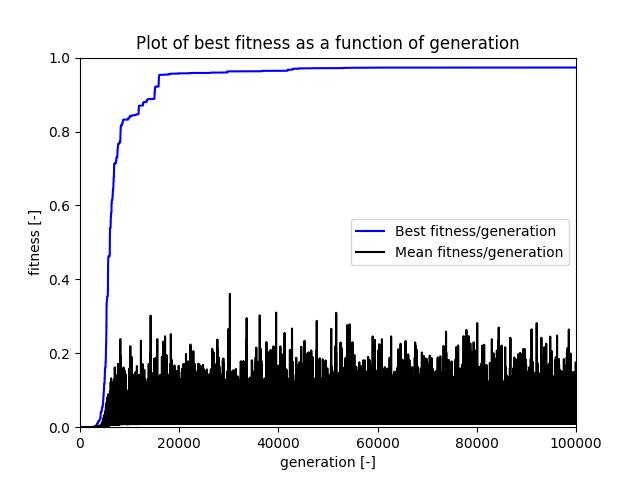
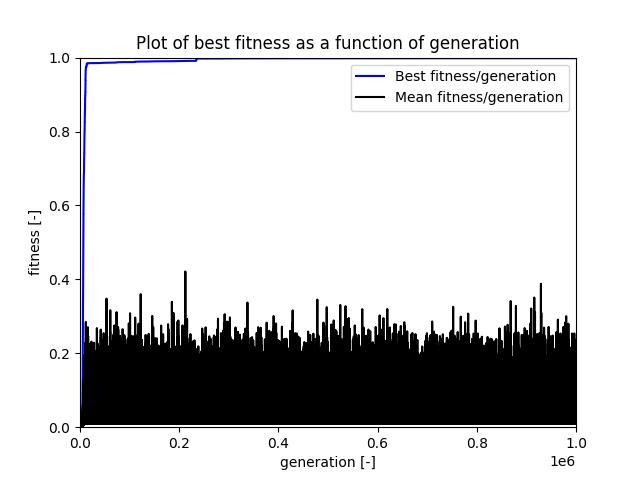
Function for finding best parameters

diff --git a/Assignment2/2.3/Task23.py b/Assignment2/2.3/Task23.py
@@ -11,6 +11,7 @@ import matplotlib.pyplot as plt
 import matplotlib
 import warnings
 import time
+from tqdm.auto import tqdm
 
 #---------------------------
 #Ignore deprecation warnings
@@ -150,25 +151,16 @@ def mutation(gene: np.array,p_mut: float, p_creep: float,creepRate: float,param_
     return new_gene 
 
 
-def main():
-    """Main function of the script. Iterating through the genetic algorithm procedure
-    """
-    #Hard code specific case
+def runAlgo(param_range: int, p_tour: int, p_cross: int, p_mut: int, p_creep: int, creep_rate: int,plot: bool) -> list:
+    
     start = time.time()
 
     filename = 'data_ga.txt'
+    x, y, g = read_file('Assignment2/2.3/' + filename)
     K = 100
     num_param = 6
-    param_range = 2
-    p_tour = 0.75
-    p_cross = 0.75
-    p_mut = 0.125
-    p_creep = 0.5
-    creep_rate = 0.01
 
-    x, y, g = read_file('Assignment2/2.3/' + filename)
-
-    num_gens = 1000000
+    num_gens = 10000
     best_fitness_gen = np.zeros(num_gens)
     mean_fitness = np.zeros(num_gens)
     fitness = np.zeros(K)
@@ -179,7 +171,8 @@ def main():
     pop = initPop(K,num_param,param_range)
 
     for i in range(num_gens):
-        max_fitness_gen = 0 
+        max_fitness_gen = 0
+        best_ind_gen = None
         for j in range(K):
             fitness[j] = evalInd(pop[:,j],x,y,g,K)
             if fitness[j] > max_fitness_gen:
@@ -208,27 +201,84 @@ def main():
                     else:
                         temp_pop[:,j] = pop[:,ind_1]
                         temp_pop[:,j+1] = pop[:,ind_2]
-
+            
             for n in range(len(temp_pop[1,:])):
                 if n != 0:
                     mutatedGene = mutation(temp_pop[:,n],p_mut,p_creep,creep_rate,param_range)
                     temp_pop[:,n] = mutatedGene
             pop = temp_pop
     
-    print(f"the most correct parameters are {pop[:,best_Ind]}")
-    end = time.time()
-    print(f"Time spent: {end-start}")
+    if plot == True:
+        print(f"the most correct parameters are {pop[:,best_Ind]}")
+        end = time.time()
+        print(f"Time spent: {end-start}")
 
-    fig = plt.figure()
-    plt.plot(np.linspace(0,num_gens, num = num_gens),best_fitness_gen, 'b',label = "Best fitness/generation")
-    plt.plot(np.linspace(0,num_gens,num_gens), mean_fitness,'k',label = "Mean fitness/generation")
-    plt.axis([0,num_gens,0,1])
-    plt.xlabel("generation [-]")
-    plt.ylabel("fitness [-]")
-    plt.title("Plot of best fitness as a function of generation")
-    plt.legend(loc = "best")
-    plt.savefig("Assignment2/2.3/plots/best_fitness.jpeg")
-    plt.show()
+        fig = plt.figure()
+        plt.plot(np.linspace(0,num_gens, num = num_gens),best_fitness_gen, 'b',label = "Best fitness/generation")
+        plt.plot(np.linspace(0,num_gens,num_gens), mean_fitness,'k',label = "Mean fitness/generation")
+        #plt.axis([0,num_gens,0,1])
+        plt.xlabel("generation [-]")
+        plt.ylabel("fitness [-]")
+        plt.title("Plot of best fitness as a function of generation")
+        plt.legend(loc = "best")
+        #plt.savefig("Assignment2/2.3/plots/best_fitness.jpeg")
+        plt.show()
+
+    return max_fitness
+
+
+def find_best_params():
+
+    param_range = [2,1,3,4]
+    p_tour = [0.2,0.4,0.75,0.9]
+    p_cross = [0.2,0.4,0.75,0.9]
+    p_mut = [0.125,0.4,0.6,0.8]
+    p_creep = [0.2,0.5,0.7,0.9]
+    creep_rate = [0.01,0.1,0.2,0.3]
+
+    progress_bar = tqdm(total = len(param_range)**6,position=0,leave=True,colour="green")
+
+    max_fitness = 0
+    best_params = []
+    for i1 in range(len(param_range)):
+        for i2 in range(len(p_tour)):
+            for i3 in range(len(p_cross)):
+                for i4 in range(len(p_mut)):
+                    for i5 in range(len(p_creep)):
+                        for i6 in range(len(creep_rate)):
+                            max_fitness_gen = runAlgo(param_range[i1],p_tour[i2],p_cross[i3],p_mut[i4],p_creep[i5],creep_rate[i6],plot = False)
+                            if max_fitness_gen > max_fitness:
+                                max_fitness = max_fitness_gen
+                                best_params = [param_range[i1],p_tour[i2],p_cross[i3],p_mut[i4],p_creep[i5],creep_rate[i6]]
+                            progress_bar.update(1)
+    
+    return best_params,max_fitness
+
+
+def main():
+    """Main function of the script. Calling the function that goes through the metholodgy
+    """
+    #Hard code specific case
+    param_range = 2
+    p_tour = 0.75
+    p_cross = 0.75
+    p_mut = 0.125
+    p_creep = 0.5
+    creep_rate = 0.01
+
+    case = input("Do you want to find best parameters or run normal case? (F/N)")
+    if case == "N":
+        runAlgo(param_range,p_tour,p_cross,p_mut,p_creep,creep_rate,plot = True)
+    elif case == "F":
+        params, maxfitness = find_best_params()
+
+        print(f"The best parameters are the following\n")
+        print(params)
+        print("——————————————————————————————————-")
+        print(f"The best fitness with these parameters is {maxfitness}")
+
+        runAlgo(params[0],params[1],params[2],params[3],params[4],params[5],plot = True)
+
 
 
 if __name__ == '__main__':

diff --git a/Assignment2/2.4/Task24.py b/Assignment2/2.4/Task24.py
@@ -37,7 +37,7 @@ def read_file(filename: str) -> np.array:
     return np.array(matrix)
 
 
-def find_path(matrix: np.array) ->list:
+def find_path(matrix: np.array,case: int) ->list:
     """Function that implements Best First Search in order to reach target node (end node)
         The function does this by going through all neighbors of the current node and calculates
         the distance to the target. The neighbor that is closest to the target is chosen to be the new current node.
@@ -46,6 +46,7 @@ def find_path(matrix: np.array) ->list:
         The function then returns the path taken in order to reach the target.
 
         :param matrix: np.array, 2d array of the "map"
+        :param case: int, choosing 4- or 8-connectivity
 
         :param return: np.array, 2d array of each node traversed 
     """
@@ -57,27 +58,33 @@ def find_path(matrix: np.array) ->list:
 
     current_node = startNode
     
-    distance = []
-    path = []
-    path.append(startNode)
+    #path = []
+    #path.append(startNode)
+    best_dist = 1
 
-    while current_node != endNode:
-        neighbors = find_neighbors(matrix,current_node,case = 1)
+    while best_dist > 0:
+        distance = []
+        neighbors = find_neighbors(matrix,current_node,case)
+        matrix[current_node[0],current_node[1]] = matrix[current_node[0],current_node[1]] + 5 #+5 means visited
 
-        if endNode in neighbors:
+        for i in range(len(neighbors)):
+            distance.append(calc_distance(matrix,neighbors[i]))
+
+        best_dist = np.min(distance)
+        if best_dist == 0:
             current_node = endNode
-            path.append(current_node)
+            matrix[current_node[0],current_node[1]] = matrix[current_node[0],current_node[1]] + 5 #+5 means visited
+            break
         else:
-            for i in range(len(neighbors)):
-                distance.append(calc_distance(matrix,neighbors[i]))
-        
-            matrix[current_node[0],current_node[1]] = 5 #5 means cant visit,
-            #which is true for already visited nodes, i.e this node has now been visited
+            try:
+                best_neighbor = neighbors[int(np.where(distance == best_dist)[0])]
+            except:
+                best_neighbor = neighbors[np.where(distance == best_dist)[0][0]]
 
-            current_node = neighbors[np.where(distance == np.min(distance))] #Update current node to node whish has min distance to target
-            path.append(current_node)
+            current_node = [best_neighbor[0],best_neighbor[1]] #Update current node to node whish has min distance to target
+            #path.append(current_node)
 
-    return path
+    return matrix
 
 
 def find_neighbors(matrix: np.array, node: list,case: int) -> list:
@@ -92,13 +99,13 @@ def find_neighbors(matrix: np.array, node: list,case: int) -> list:
         :param return: np.array, 2d array of coordinates for valid neighbors
     """
     neighbors = []
-    i = int(node[0])
-    j = int(node[1])
+    y = node[0]
+    x = node[1]
 
     if case == 1:
-        combinations = [[i+1,j],[i-1,j],[i,j+1],[i,j-1]]
+        combinations = [[y+1,x],[y-1,x],[y,x+1],[y,x-1]]
     else:
-        combinations = [[i+1,j],[i-1,j],[i,j+1],[i,j-1],[i+1,j+1],[i-1,j-1],[i+1,j-1],[i-1,j+1]]
+        combinations = [[y+1,x],[y-1,x],[y,x+1],[y,x-1],[y+1,x+1],[y-1,x-1],[y+1,x-1],[y-1,x+1]]
 
     for i in combinations:
         try:
@@ -116,19 +123,31 @@ def find_neighbors(matrix: np.array, node: list,case: int) -> list:
 
 
 def calc_distance(matrix: np.array, currentNode: list) -> int:
-    pass
+    """Function that calculates the manhattan distance from the current node to the end node.
+
+        :param matrix: np.array, 2d array of the "map"
+        :param currentNode: list, coordinates for the current node
+
+        :param return: int, manhattan distance from current node to the end node
+    """
+    endNode = np.where(matrix == 3)
+    endNode = [int(endNode[0]),int(endNode[1])]
+
+    return np.abs(currentNode[0] - endNode[0]) + np.abs(currentNode[1]-endNode[1])
 
 
 def main():
-    filename = "maze_small.txt"
+    filename = "maze_big.txt"
 
-    matrix = read_file("Assignment2/2.4/" + filename)
-    print(matrix)
-    
-    find_path(matrix)
+    case = 2
+    matrix = read_file("Assignment2/2.4/" + filename)    
+    new_matrix = find_path(matrix,case)
 
-    print(matrix)
-
+    if filename == "maze_big.txt":
+        np.savetxt("Assignment2/2.4/solutions/solvedMatrix_big.txt",new_matrix,fmt = '%d', delimiter= "")
+    else:
+        np.savetxt("Assignment2/2.4/solutions/solvedMatrix_small.txt",new_matrix,fmt = '%d', delimiter= "")
+        
 
 if __name__ == '__main__':
     main()
